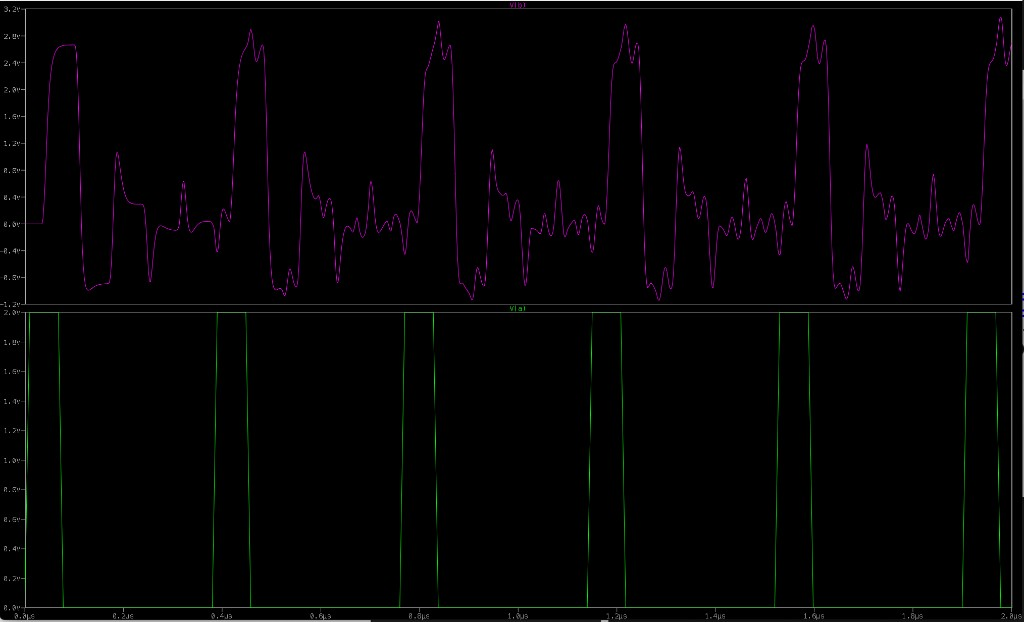
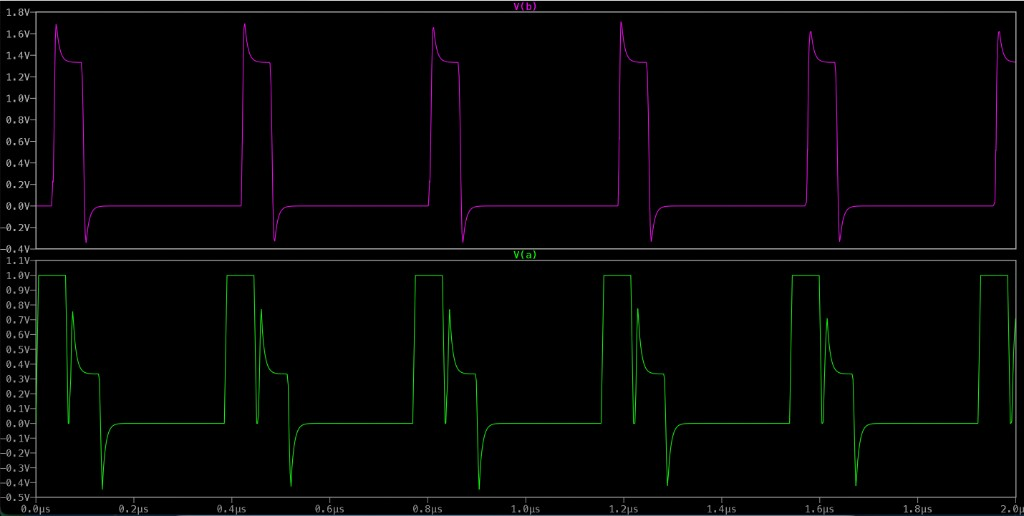
final version

diff --git a/labs/LAB-6/exp#6_pre_shailivshits_208632216_danmasad_206505307.md b/labs/LAB-6/exp#6_pre_shailivshits_208632216_danmasad_206505307.md
@@ -11,8 +11,6 @@ header-includes:
 # Lab 6: Distributed Circuits and Transmission Lines - Preliminary Report
 
 **Students:** Shai Livshits · 208632216 &nbsp;|&nbsp; Dan Masad · 206505307
-**Date:** 17/06/2026
-**Course:** Lab A - Electronics, TAU Faculty of Engineering, Semester B 2025-2026
 
 ---
 
@@ -157,24 +155,27 @@ The reflection coefficient for each load is summarised below:
 
 - **(vii) Series RC:** At $t = 0^+$ the capacitor is uncharged (acts as short), $Z_L = R = 100\,\Omega$, $\Gamma = +1/3$, $V_B = 4/3\,\text{V}$. As C charges, $Z_L \to \infty$, giving $\Gamma \to +1$ and $V_B \to 2\,\text{V}$. Time constant: $\tau = (R + Z_0)\,C = 150\,\Omega \times 1\,\mu\text{F} = 150\,\mu\text{s}$ (much longer than the 2 µs window, so the full transition is not visible).
 
-**Simulation results are shown in Figures 2–5.**
+**Simulation results are shown in Figures 2–4.**
 
 
-**All resistive loads (ii)–(v):** All four resistive loads are shown together in Figure 2. Each load produces a distinct reflection coefficient, visible as a different steady-state voltage level on the superimposed waveforms.
+**All resistive loads (ii)–(v):** All five loads (including short and open) are shown together in Figure 2. Each load produces a distinct reflection coefficient, visible as a different steady-state voltage level on the top ($V(B)$) traces.
+
+The bottom traces ($V(A)$, source side) reveal the return signal, which always appears **during the OFF state** (between pulses) since the round-trip delay $2t_d \approx 69\,\text{ns}$ is much shorter than the pulse period:
+
+- **Short circuit** (green, $\Gamma = -1$): the reflected wave is inverted (polarised negative), producing a negative-going pulse at $V(A)$ during the OFF period.
+- **Open circuit** (pink, $\Gamma = +1$): the full incident voltage is reflected back in phase. The return pulse arrives at A after $2t_d$ and appears as a second consecutive positive pulse — as if the ON state repeats — because all the voltage is returned with no loss.
+- **$25\,\Omega$** (purple, $\Gamma = -1/3$): partial negative return; lower amplitude than short circuit.
+- **$50\,\Omega$** (red, $\Gamma = 0$): matched load — no reflected wave, $V(A)$ shows nothing during OFF period.
+- **$160\,\Omega$** (cyan, $\Gamma = +0.524$): partial positive return; lower amplitude than open circuit.
+
+In general, loads with $Z_L < Z_0$ produce a **negative** return pulse at A, loads with $Z_L > Z_0$ produce a **positive** return pulse, and the matched load ($Z_L = Z_0 = 50\,\Omega$) produces no return at all.
 
 ![ ](assets/sim_1.7_resistive.png)
 \nopagebreak[4]
 
-\figcap{Figure 2: Resistive terminations - bottom: $V(A)$ source; top: $V(B)$ for open, $50\,\Omega$, $25\,\Omega$, and $160\,\Omega$ loads overlaid, amplitudes reflecting $\Gamma = +1,\,0,\,-1/3,\,+0.524$ respectively.}
+\figcap{Figure 2: All resistive terminations overlaid - top: $V(B)$: short ($\Gamma=-1$, green), $25\,\Omega$ ($\Gamma=-1/3$, purple), $50\,\Omega$ ($\Gamma=0$, red), $160\,\Omega$ ($\Gamma=+0.524$, cyan), open ($\Gamma=+1$, pink); bottom: $V(A)$ source side - return pulses appear during OFF cycles, negative for $Z_L < Z_0$, positive for $Z_L > Z_0$, absent for matched load.}
 
 
-\newpage
-**Short-circuit (i):** $\Gamma = -1$; the voltage at B is forced to zero and the reflected wave inverts the incident pulse. The amplitude that measured was very low as and not perfect zero as we used $1\,\Omega$ load.
-
-![ ](assets/sim_1.7_short.png)
-\nopagebreak[4]
-
-\figcap{Figure 3: Short-circuit termination ($\Gamma = -1$) - bottom: $V(A)$ shows staircase buildup from successive re-reflections; top: $V(B) \approx 0$ (short-circuit forced voltage).}
 
 \newpage
 **Series R-L (vi):** The inductor produces an initial voltage overshoot at B ($V_B \to 2\,\text{V}$, top trace) followed by exponential decay toward the resistive steady state ($V_B \to 4/3\,\text{V}$, $\tau \approx 6.7\,\text{ns}$). Strong ringing is also visible at A (bottom trace) from each pulse transition.
@@ -182,26 +183,28 @@ The reflection coefficient for each load is summarised below:
 ![ ](assets/sim_1.7_RL.png)
 \nopagebreak[4]
 
-\figcap{Figure 4: Series RL termination ($R=100\,\Omega$, $L=1\,\mu\text{H}$) - bottom: $V(A)$ source reference; top: $V(B)$ shows inductive overshoot and ringing on each pulse edge.}
+\figcap{Figure 3: Series RL termination ($R=100\,\Omega$, $L=1\,\mu\text{H}$) - top: $V(B)$ shows inductive overshoot to $\approx 1.7\,\text{V}$ then undershoot below $0\,\text{V}$ on each edge; bottom: $V(A)$ shows corresponding ringing at the source.}
 
 \newpage
-**Series R-C (vii):** The capacitor produces an initial response at B (top trace) corresponding to the purely resistive $\Gamma = +1/3$, then the voltage slowly rises toward $V_B = 2\,\text{V}$ (open-circuit limit) with $\tau = 150\,\mu\text{s}$. Within the 2 µs window, the capacitor barely charges, so primarily the transient step-response staircase is visible at B (top trace), with V(A) (bottom trace) as the source reference.
+**Series R-C (vii):** At $t = 0^+$ the capacitor acts as a short, giving $Z_L = R = 100\,\Omega$, $\Gamma = +1/3$, and $V_B = 4/3\,\text{V} \approx 1.33\,\text{V}$. With $\tau = 150\,\mu\text{s} \gg 2\,\mu\text{s}$ window, the capacitor barely charges and $V(B)$ (top trace) remains nearly flat at $\approx 1.33\,\text{V}$.
+
+The $V(A)$ (bottom trace) shows the effect of the $100\,\Omega$ resistor alone — a positive return pulse ($\Gamma = +1/3 > 0$) appearing during the OFF cycle — without any capacitive contribution, since the capacitor is effectively transparent (uncharged, acting as a short) throughout the observation window.
 
 ![ ](assets/sim_1.7_RC.png)
 \nopagebreak[4]
 
-\figcap{Figure 5: Series RC termination ($R=100\,\Omega$, $C=1\,\mu\text{F}$) - top: $V(B)$ shows staircase pattern from multiple reflections as C slowly charges; bottom: incident pulse reference at A.}
+\figcap{Figure 4: Series RC termination ($R=100\,\Omega$, $C=1\,\mu\text{F}$) - top: $V(B) \approx 4/3\,\text{V} \approx 1.33\,\text{V}$ flat ($\tau = 150\,\mu\text{s} \gg$ window, capacitor barely charges); bottom: $V(A)$ source reference.}
 
 \newpage
 
 ## 1.8 - Power Splitter Analysis
 
-The circuit (Figure 6) splits the signal from input line $T_1$ ($Z_0 = 50\,\Omega$) into two equal branches through a symmetric resistive network: a series input resistor $R_1 = 17\,\Omega$, followed by two branches each containing $R_2 = R_3 = 17\,\Omega$ in series with matched output lines $T_2$, $T_3$ ($Z_0 = 50\,\Omega$) loaded by $R_4 = R_5 = 50\,\Omega$.
+The circuit (Figure 5) splits the signal from input line $T_1$ ($Z_0 = 50\,\Omega$) into two equal branches through a symmetric resistive network: a series input resistor $R_1 = 17\,\Omega$, followed by two branches each containing $R_2 = R_3 = 17\,\Omega$ in series with matched output lines $T_2$, $T_3$ ($Z_0 = 50\,\Omega$) loaded by $R_4 = R_5 = 50\,\Omega$.
 
 ![ ](assets/fig2.png)
 \nopagebreak[4]
 
-\figcap{Figure 6: Resistive power splitter - $V_1$ (1\,V$_\text{ac}$) drives matched input line $T_1$ into symmetric resistive splitter ($R_1 = R_2 = R_3 = 17\,\Omega$) with two $50\,\Omega$ output loads.}
+\figcap{Figure 5: Resistive power splitter - $V_1$ (1\,V$_\text{ac}$) drives matched input line $T_1$ into symmetric resistive splitter ($R_1 = R_2 = R_3 = 17\,\Omega$) with two $50\,\Omega$ output loads.}
 
 ### (a) Input Resistance $R_\text{in}$
 
@@ -217,12 +220,12 @@ Adding the series input resistor $R_1$:
 
 $$\boxed{R_\text{in} = R_1 + Z_\text{par} = 17\,\Omega + 33.5\,\Omega = 50.5\,\Omega \approx 50\,\Omega}$$
 
-The AC sweep simulation (Figure 7) confirms $R_\text{in} = 50.5\,\Omega$ flat across the entire band, verifying the impedance-matched design.
+The AC sweep simulation (Figure 6) confirms $R_\text{in} = 50.5\,\Omega$ flat across the entire band, verifying the impedance-matched design.
 
 ![ ](assets/sim_1.8a.png)
 \nopagebreak[4]
 
-\figcap{Figure 7: Power splitter AC sweep - bottom panel: $V(\text{in})/I(R_\text{in}) = 50.5\,\Omega$ perfectly flat from 1\,Hz to 10\,MHz, confirming $R_\text{in} \approx Z_0 = 50\,\Omega$.}
+\figcap{Figure 6: Power splitter AC sweep - bottom panel: $V(\text{in})/I(R_\text{in}) = 50.5\,\Omega$ perfectly flat from 1\,Hz to 10\,MHz, confirming $R_\text{in} \approx Z_0 = 50\,\Omega$.}
 
 ### (b) Power Delivered to Each Load ($R_4$ or $R_5$)
 
@@ -242,20 +245,20 @@ $$\boxed{P_\text{load} = \frac{V_{R_4}^2}{2\,R_\text{load}} = \frac{(0.495)^2}{2
 
 The total available input power is $P_\text{in} = V_\text{in}^2/(2Z_0) = 1/(100) = 10\,\text{mW}$; each load receives 2.45 mW and the matching resistors $R_1, R_2, R_3$ dissipate the remainder.
 
-The simulation (Figure 8) plots $I(R_5)\cdot V(5)$ and $I(R_4)\cdot V(4)$ - the products of **peak** current and **peak** voltage at each load. These are **not RMS quantities**: the average (absorbed) power is obtained by dividing the displayed product by 2:
+The simulation (Figure 7) plots $I(R_5)\cdot V(5)$ and $I(R_4)\cdot V(4)$ - the products of **peak** current and **peak** voltage at each load. These are **not RMS quantities**: the average (absorbed) power is obtained by dividing the displayed product by 2:
 
 $$P_\text{load} = \frac{I(R_4)\cdot V(4)}{2} = \frac{4.90\,\text{mW}}{2} = 2.45\,\text{mW} \quad \text{(confirmed)}$$
 
 ![ ](assets/calc_1.8b.png)
 \nopagebreak[4]
 
-\figcap{Figure 8: Power splitter simulation - peak-power products $I(R_5)\cdot V(5)$ and $I(R_4)\cdot V(4)$ each $\approx 4.90\,\text{mW}$; dividing by 2 gives average power $\approx 2.45\,\text{mW}$ per load.}
+\figcap{Figure 7: Power splitter simulation - peak-power products $I(R_5)\cdot V(5)$ and $I(R_4)\cdot V(4)$ each $\approx 4.90\,\text{mW}$; dividing by 2 gives average power $\approx 2.45\,\text{mW}$ per load.}
 
 \newpage
 
 ## 1.9 - T-Attenuator Design (3 dB, $Z_0 = 50\,\Omega$)
 
-A symmetric T-attenuator (Figure 9) uses two equal series resistors $R_1$ (one in each arm) and a shunt resistor $R_2$. For a 3 dB power attenuation, half the input power reaches the load, giving a voltage attenuation ratio:
+A symmetric T-attenuator (Figure 8) uses two equal series resistors $R_1$ (one in each arm) and a shunt resistor $R_2$. For a 3 dB power attenuation, half the input power reaches the load, giving a voltage attenuation ratio:
 
 $$k = \frac{V_\text{in}}{V_\text{out}} = \sqrt{\frac{P_\text{in}}{P_\text{out}}} = \sqrt{2} \approx 1.4142$$
 
@@ -274,18 +277,18 @@ $$R_2 = 50 \cdot \frac{2\sqrt{2}}{(\sqrt{2})^2 - 1} = 50 \cdot \frac{2.8284}{1} 
 ![ ](assets/fig3.png)
 \nopagebreak[4]
 
-\figcap{Figure 9: T-type power attenuator - series arms $R_1 = 8.58\,\Omega$ and shunt $R_2 = 141.42\,\Omega$ design for 3\,dB attenuation with $Z_0 = 50\,\Omega$.}
+\figcap{Figure 8: T-type power attenuator - series arms $R_1 = 8.58\,\Omega$ and shunt $R_2 = 141.42\,\Omega$ design for 3\,dB attenuation with $Z_0 = 50\,\Omega$.}
 
 ### Simulation Verification
 
-**Input impedance** (Figure 10): $V(\text{in})/I(R_1) = 50.0019\,\Omega$ flat from 1 Hz to 100 MHz, confirming the T-network presents $Z_\text{in} = Z_0 = 50\,\Omega$.
+**Input impedance** (Figure 9): $V(\text{in})/I(R_1) = 50.0019\,\Omega$ flat from 1 Hz to 100 MHz, confirming the T-network presents $Z_\text{in} = Z_0 = 50\,\Omega$.
 
 ![ ](assets/sim_1.9_Zin.png)
 \nopagebreak[4]
 
-\figcap{Figure 10: T-attenuator input impedance - $50.0019\,\Omega$ flat over all frequencies, confirming $Z_\text{in} = Z_0 = 50\,\Omega$.}
+\figcap{Figure 9: T-attenuator input impedance - $50.0019\,\Omega$ flat over all frequencies, confirming $Z_\text{in} = Z_0 = 50\,\Omega$.}
 
-**Power attenuation** (Figure 11): The simulation plots $(V(4)\cdot I(R_4))/2$ and $V(\text{in})\cdot I(R_1)/2$. These are peak-power products; average power is half the displayed value (non-RMS):
+**Power attenuation** (Figure 10): The simulation plots $(V(4)\cdot I(R_4))/2$ and $V(\text{in})\cdot I(R_1)/2$. These are peak-power products; average power is half the displayed value (non-RMS):
 
 $$P_{R_4} = \frac{4.9995\,\text{mW}}{2} \approx 2.5\,\text{mW}$$
 
@@ -298,7 +301,7 @@ For power, $\text{dBW} = 10\log_{10}(P_\text{out}/P_\text{in})$, so $-3\,\text{d
 ![ ](assets/sim_1.9_power.png)
 \nopagebreak[4]
 
-\figcap{Figure 11: T-attenuator power - top: $(V(4)\cdot I(R_4))/2 \approx 5.0\,\text{mW}$ (peak product); bottom: $V(\text{in})\cdot I(R_1)/2 \approx 10.0\,\text{mW}$. Average powers are half: $P_{R_4} \approx 2.5\,\text{mW}$, $P_\text{in} \approx 5.0\,\text{mW}$, confirming $-3\,\text{dB}$ attenuation.}
+\figcap{Figure 10: T-attenuator power - top: $(V(4)\cdot I(R_4))/2 \approx 5.0\,\text{mW}$ (peak product); bottom: $V(\text{in})\cdot I(R_1)/2 \approx 10.0\,\text{mW}$. Average powers are half: $P_{R_4} \approx 2.5\,\text{mW}$, $P_\text{in} \approx 5.0\,\text{mW}$, confirming $-3\,\text{dB}$ attenuation.}
 
 \newpage
 
@@ -309,7 +312,7 @@ The circuit in Figure 11 is a **2nd-order LC $\pi$-type low-pass filter** (also 
 ![ ](assets/fig4.png)
 \nopagebreak[4]
 
-\figcap{Figure 12: Matched LC $\pi$ low-pass filter ($L_2 = 1\,\mu\text{H}$, $C_4 = C_5 = 815\,\text{pF}$, $R_8 = 50\,\Omega$).}
+\figcap{Figure 11: Matched LC $\pi$ low-pass filter ($L_2 = 1\,\mu\text{H}$, $C_4 = C_5 = 815\,\text{pF}$, $R_8 = 50\,\Omega$).}
 
 ## 1.11 - Number of Poles
 
@@ -339,7 +342,7 @@ $$Q = R_8\sqrt{\frac{C_5}{L_2}} = 50\sqrt{\frac{815\,\text{pF}}{1\,\mu\text{H}}}
 
 Since $Q > 1/\sqrt{2} \approx 0.707$, the second-order filter exhibits a slight gain peak just below $f_c$ (underdamped response).
 
-The AC frequency sweep (Figure 13) confirms:
+The AC frequency sweep (Figure 12) confirms:
 
 - **Pass-band** ($f \ll f_c$): gain $\approx 0\,\text{dB}$, phase $\approx 0°$ - the filter is transparent.
 - **Transition region** (~1–10 MHz): gain rolls off steeply at $-40\,\text{dB/decade}$ (2 poles), phase shifts toward $-180°$.
@@ -351,13 +354,13 @@ These results align with the 2-pole answer in Q1.11: the steep roll-off rate ($-
 ![ ](assets/sim_1.12.png)
 \nopagebreak[4]
 
-\figcap{Figure 13: LPF Bode plot - flat 0 dB pass-band up to approximately 1 MHz, gain peak near cutoff at 5.6 MHz, then steep stop-band roll-off exceeding 50 dB at 100 MHz.}
+\figcap{Figure 12: LPF Bode plot - flat 0 dB pass-band up to approximately 1 MHz, gain peak near cutoff at 5.6 MHz, then steep stop-band roll-off exceeding 50 dB at 100 MHz.}
 
 \newpage
 
 ## 1.13 - LPF Input Impedance vs. Frequency
 
-The input impedance $Z_\text{in}(f) = V(n_{004})/I(V_2)$ of the $\pi$-filter (measured from the source) is plotted in Figure 14. Three frequency regimes are visible:
+The input impedance $Z_\text{in}(f) = V(n_{004})/I(V_2)$ of the $\pi$-filter (measured from the source) is plotted in Figure 13. Three frequency regimes are visible:
 
 **Low frequencies ($f \ll f_c \approx 5.6\,\text{MHz}$):** The simulation shows $Z_\text{in} \approx 49.5\,\Omega \approx Z_0 = 50\,\Omega$. At low frequencies the shunt capacitors $C_4$ and $C_5$ are nearly open and $L_2$ is nearly short, so the filter is transparent and the source sees only the matched load $R_8 = 50\,\Omega$ - giving the expected near-perfect match.
 
@@ -370,4 +373,4 @@ This behaviour confirms that the filter is well-matched ($Z_\text{in} \approx 50
 ![ ](assets/sim_1.13.png)
 \nopagebreak[4]
 
-\figcap{Figure 14: LPF input impedance $\frac{V_{in}}{I_{in}}$ flat at $\approx 49.5\,\Omega$ in the pass-band, dipping to a minimum and exhibiting a resonant peak near $f_c \approx 5\,\text{MHz}$, then collapsing at higher frequencies.}
+\figcap{Figure 13: LPF input impedance $\frac{V_{in}}{I_{in}}$ flat at $\approx 49.5\,\Omega$ in the pass-band, dipping to a minimum and exhibiting a resonant peak near $f_c \approx 5\,\text{MHz}$, then collapsing at higher frequencies.}